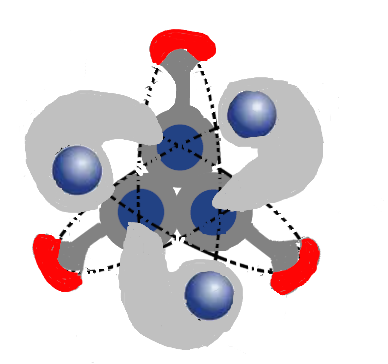
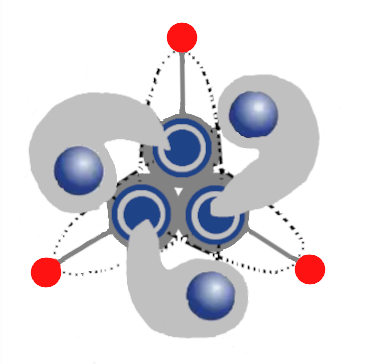
update

diff --git a/README.md b/README.md
@@ -5,9 +5,10 @@
 。劣等文明不配拥有先进的科技，先天形成先进思想则更完美，而品格则最重要(心灵的美，美好的灵魂
 将被收藏)。
 
-   万物能量的源泉:质 (粒状流体)(上帝电容)(神的荣耀源泉产物)，传承神的遗志，统领万物。
+   #### 万物能量的源泉:质 (粒状流体)(上帝电容)(神的荣耀源泉产物)，传承神的遗志，统领万物。
 
-   质(粒状流体)，吸收红外电粒子的能量(频率跳跃，自旋，移动加速度的动能)，帮助其他电粒子(红外
+   #### 质(粒状流体)
+   吸收红外电粒子的能量(频率跳跃，自旋，移动加速度的动能)，帮助其他电粒子(红外
 频率以外，临界值暂时不明确，与质的冠幅有关)充电。质的力由质与质所传导，质被质场所吸引，并且
 受质场力的方向与力的加速度传导所影响(质作为一份子加入到质场中)。与质场的源距离越远，力的加
 速度越小，反之亦然(1元的磁铁肯定比不上100元的)。由于地球质场影响，同一光源，向下照的光比向
@@ -19,8 +20,8 @@
 状态，无限的膨胀以后将成为新的问题)。没有个性的质只能随流(质场)。有个性的质可以一飞冲天，漫
 游星际。
 
-   电子(频率跳跃，自旋的质产生了质场从而形成了电子，如果其一为零，则电子泯灭，剩下质)，一般
-由质(一般情况里面有电子)与质(一般情况里面有电子)的碰撞(消耗这两个质的容量，分配出一个新的质)
+   #### 电子(频率跳跃，自旋的质产生了质场从而形成了电子，如果其一为零，则电子泯灭，剩下质)
+   一般由质(一般情况里面有电子)与质(一般情况里面有电子)的碰撞(消耗这两个质的容量，分配出一个新的质)
 形成移动方向与移动加速度(使用矢量方式计算。光速很快很难捕捉，但光速不是常数，绝大多数情况是
 不同的速度)。伏特不使用正负描述，而是用自旋方向去决定相对的同向与相对的反向(万向，使用矢量
 方式计算)，而自旋的强度决定电伏(伏特，正比，相对的强，相对的弱)。电频(频率)形成电子的轮廓(如
@@ -28,17 +29,21 @@
 大于质的冠幅，电子将在质与质之间迁跃(受到质的牵引电子突破质场时会消耗部分自旋动能)，直至泯
 灭。电子频率(跳跃/迁跃)速度>质场力传导速度(无电子效应情况)>光速(有电子效应情况，矢量最终值，
 质移动方向与移动加速度)。
+
    电波则是成串，连贯的电粒子，同个电波的电粒子频率，移动方向与加速度大体相同，而自旋方向，
 自旋强度有所不同。
+
    关于声波传播则需要有对质场有效应的气体(有核外电子的物质)，声源震动气体，气体对质场产生了
 力的传导，质场从而把力传导到其他物质的原子核外电子(核外质)引起摆动。(即使作用力很小也要把这
 些力附加上去如同计算混音效果，想想2012年那来自天外的爆炸声和喧杂声)
 
-   中子，电粒子(y 频率)从后追上撞进电粒子中，被包裹着(移动方向相同，加速度更快，所以追上了),
+   #### 中子
+   电粒子(y 频率)从后追上撞进电粒子中，被包裹着(移动方向相同，加速度更快，所以追上了),
 形成内纠缠。被撞的电粒子里外翻转了，所以中子外壁表现出相对反向的特性。独立静止的中子稍微加
 热就会被破坏。
 
-   质场，由力的方向与力的加速度组成(矢量概念)。关于力场学中的物理三大场， 引力场，磁力场，电
+   #### 质场
+   由力的方向与力的加速度组成(矢量概念)。关于力场学中的物理三大场， 引力场，磁力场，电
 力场，都是同样的事物，均是由质引起的，统称质场。因为质是流体，所以质场可由一个或多个质形成(
 使用矢量方式计算最终力的方向与力的加速度)。
 
@@ -47,7 +52,8 @@
    化学中物质的真理是物理，所以物质所有的问题都应该使用物理去解释，而不是使用数独(数学游戏)
 。
 
-如图锂原子，质在缠绕着核内电子(示意图，实际上是连成一片的，形成物质不可逾越的外壳)，由于质场效应挤压
-出质(红色区域,原核外电子概念)。
+    #### 锂原子(如图)
+    质在缠绕着核内电子(示意图，实际上是连成一片的，形成物质不可逾越的外壳)，由于质场效应激凸
+部分挤压,质场外溢形成了核外质(红色区域,原核外电子概念)。
 
 ![Image text](https://github.com/suzhengquan/material_origin_cn/blob/main/Lithium.png?raw=true)
